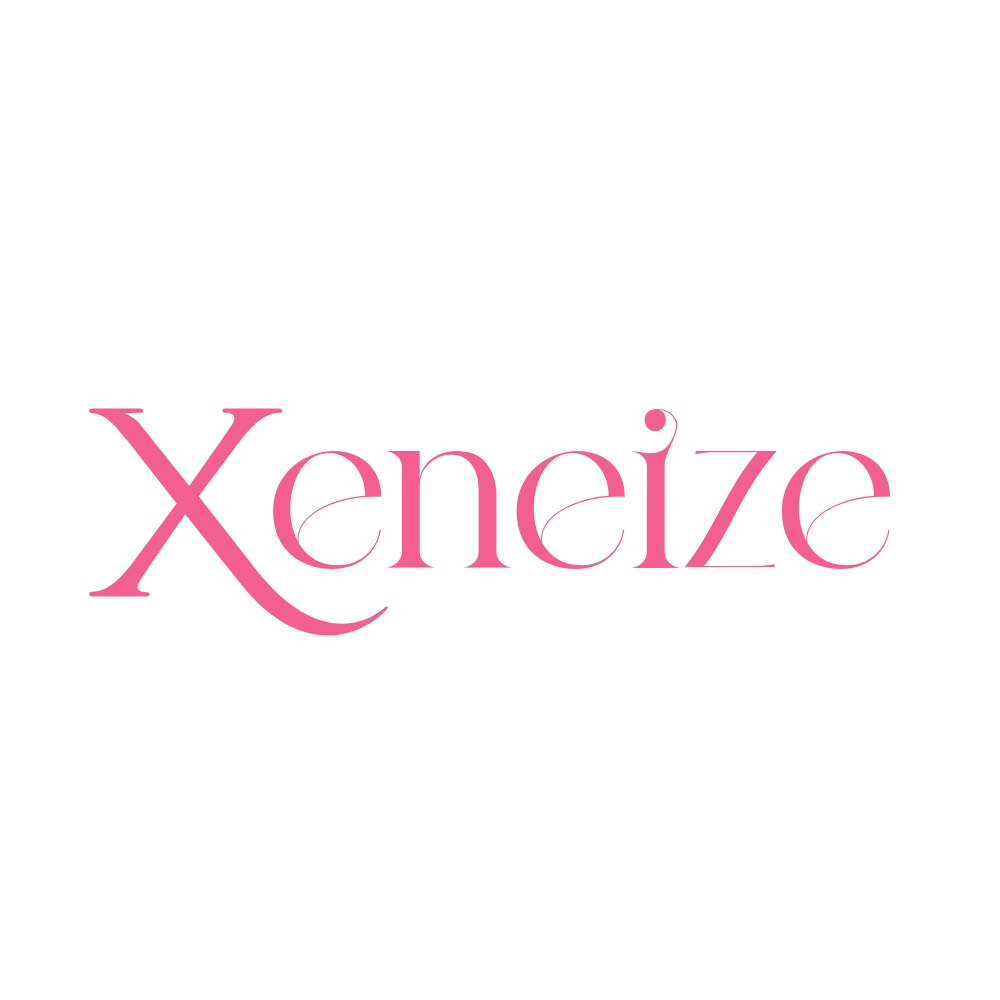
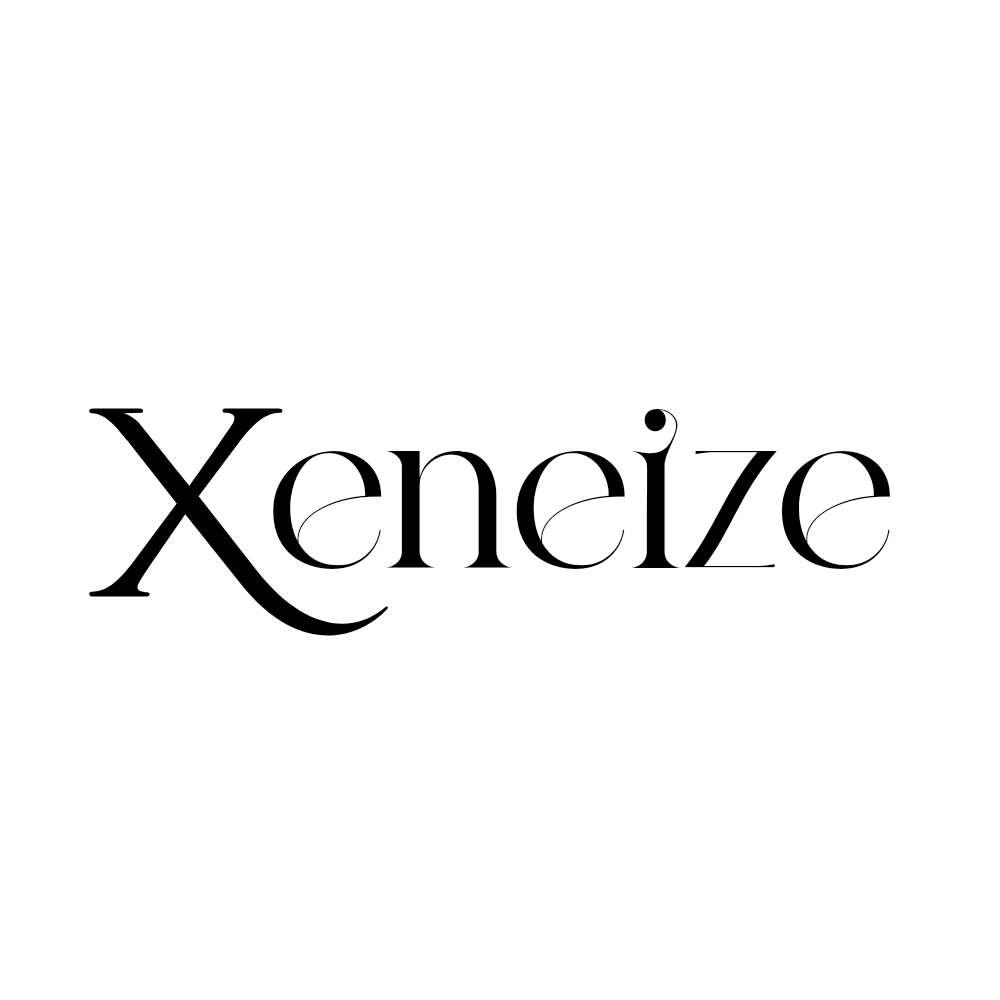
cambiosss

diff --git a/app/globals.css b/app/globals.css
@@ -1645,45 +1645,86 @@ p {
     margin-top: 10px;
     display: flex;
     flex-direction: column;
-    gap: 16px;
     background: rgba(252, 250, 246, 0.62);
     border: 1px solid var(--line);
     border-radius: 12px;
-    padding: 20px;
+    padding: 8px 20px;
     box-shadow: 0 10px 30px rgba(58, 0, 12, 0.05);
   }
 
   .technical__compact-item {
     border-bottom: 1px solid var(--line);
-    padding-bottom: 16px;
+    padding: 14px 0;
   }
 
   .technical__compact-item:last-child {
     border-bottom: none;
-    padding-bottom: 0;
   }
 
   .technical__compact-item-header {
+    width: 100%;
+    background: none;
+    border: none;
+    padding: 0;
+    margin: 0;
+    text-align: left;
+    cursor: pointer;
+    display: flex;
+    align-items: center;
+    justify-content: space-between;
+    color: var(--burgundy-dark);
+    font-family: inherit;
+    -webkit-tap-highlight-color: transparent;
+  }
+
+  .technical__compact-item-header:focus-visible {
+    outline: 2px solid var(--burgundy);
+    outline-offset: 4px;
+    border-radius: 4px;
+  }
+
+  .technical__compact-item-title-wrap {
     display: flex;
     align-items: center;
     gap: 8px;
-    margin-bottom: 6px;
-    color: var(--burgundy-dark);
   }
 
-  .technical__compact-item-header h4 {
+  .technical__compact-item-title-wrap h4 {
     margin: 0;
     font-family: var(--sans);
     font-weight: 700;
     font-size: 1.05rem;
   }
 
-  .technical__compact-item-header svg {
+  .technical__compact-item-title-wrap svg {
     color: var(--burgundy);
     flex-shrink: 0;
   }
 
-  .technical__compact-item p {
+  .technical__compact-item-chevron {
+    color: var(--burgundy);
+    flex-shrink: 0;
+    transition: transform 200ms cubic-bezier(0.4, 0, 0.2, 1);
+  }
+
+  .technical__compact-item-chevron--open {
+    transform: rotate(180deg);
+  }
+
+  .technical__compact-item-content {
+    max-height: 0;
+    opacity: 0;
+    overflow: hidden;
+    transition: max-height 250ms cubic-bezier(0.4, 0, 0.2, 1), opacity 200ms ease, margin-top 200ms ease;
+  }
+
+  .technical__compact-item-content--open {
+    max-height: 200px;
+    opacity: 1;
+    margin-top: 8px;
+  }
+
+  .technical__compact-item-content p {
     margin: 0;
     font-size: 0.9rem;
     line-height: 1.55;

diff --git a/components/TechnicalProfileSection.tsx b/components/TechnicalProfileSection.tsx
@@ -1,7 +1,11 @@
+"use client";
+
+import { useState } from "react";
 import { stack, technicalCards } from "@/data/skills";
 import {
   BarChart3,
   Braces,
+  ChevronDown,
   Code2,
   Database,
   GitBranch,
@@ -43,8 +47,11 @@ const stackIcons: Record<string, LucideIcon> = {
 };
 
 export function TechnicalProfileSection() {
-  const featuredCard = technicalCards[0];
-  const otherCards = technicalCards.slice(1);
+  const [openIndex, setOpenIndex] = useState<number | null>(null);
+
+  const toggleItem = (index: number) => {
+    setOpenIndex(prev => (prev === index ? null : index));
+  };
 
   return (
     <section className="technical section-shell" id="perfil-tecnico">
@@ -91,29 +98,36 @@ export function TechnicalProfileSection() {
 
       {/* Compact/Featured view for Mobile */}
       <div className="technical__mobile-view">
-        {featuredCard && (
-          <article className="technical-card technical-card--feature reveal">
-            <div className="technical-card__top">
-              <h3>{featuredCard.title}</h3>
-              {(() => {
-                const Icon = technicalIcons[featuredCard.title] ?? Code2;
-                return <Icon aria-hidden="true" size={24} strokeWidth={1.7} />;
-              })()}
-            </div>
-            <p>{featuredCard.text}</p>
-          </article>
-        )}
-
         <div className="technical__compact-list reveal">
-          {otherCards.map((card) => {
+          {technicalCards.map((card, index) => {
             const Icon = technicalIcons[card.title] ?? Code2;
+            const isOpen = openIndex === index;
             return (
               <div className="technical__compact-item" key={card.title}>
-                <div className="technical__compact-item-header">
-                  <Icon aria-hidden="true" size={18} strokeWidth={1.7} />
-                  <h4>{card.title}</h4>
+                <button
+                  className="technical__compact-item-header"
+                  onClick={() => toggleItem(index)}
+                  aria-expanded={isOpen}
+                >
+                  <div className="technical__compact-item-title-wrap">
+                    <Icon aria-hidden="true" size={18} strokeWidth={1.7} />
+                    <h4>{card.title}</h4>
+                  </div>
+                  <ChevronDown
+                    className={`technical__compact-item-chevron ${
+                      isOpen ? "technical__compact-item-chevron--open" : ""
+                    }`}
+                    size={18}
+                    strokeWidth={1.8}
+                  />
+                </button>
+                <div
+                  className={`technical__compact-item-content ${
+                    isOpen ? "technical__compact-item-content--open" : ""
+                  }`}
+                >
+                  <p>{card.text}</p>
                 </div>
-                <p>{card.text}</p>
               </div>
             );
           })}

diff --git a/next-env.d.ts b/next-env.d.ts
@@ -1,6 +1,6 @@
 /// <reference types="next" />
 /// <reference types="next/image-types/global" />
-import "./.next/dev/types/routes.d.ts";
+import "./.next/types/routes.d.ts";
 
 // NOTE: This file should not be edited
 // see https://nextjs.org/docs/app/api-reference/config/typescript for more information.